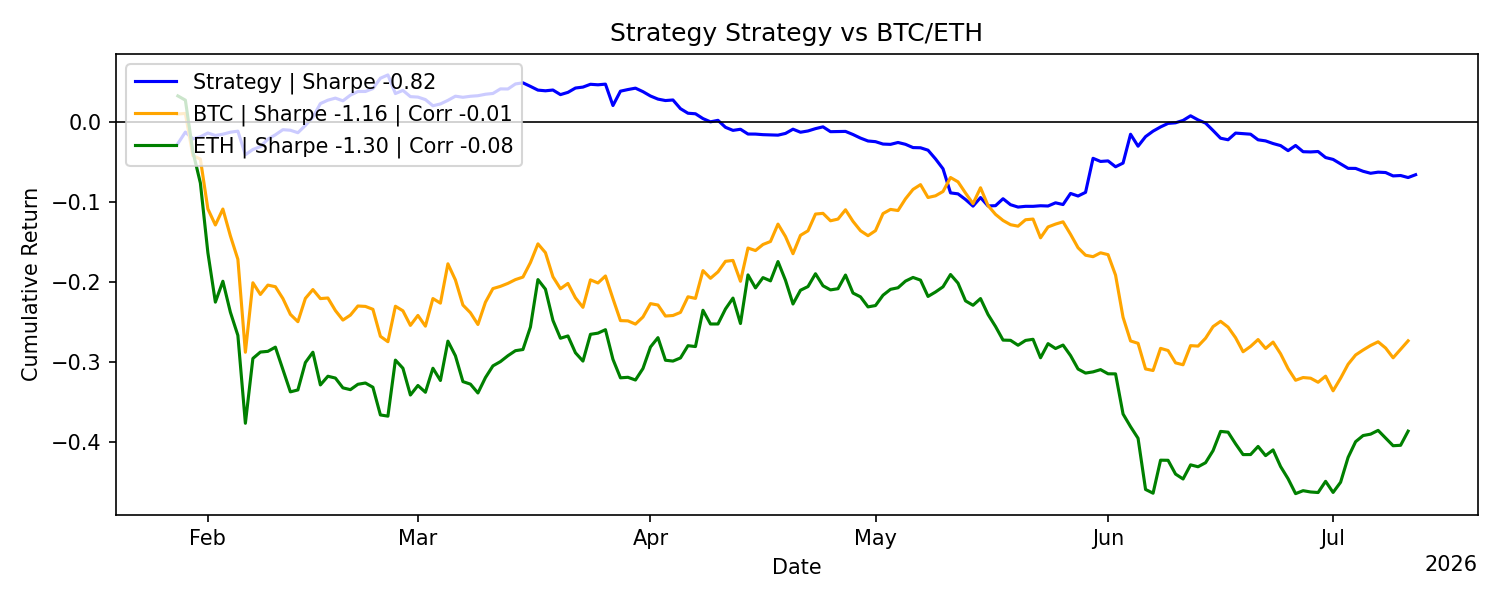
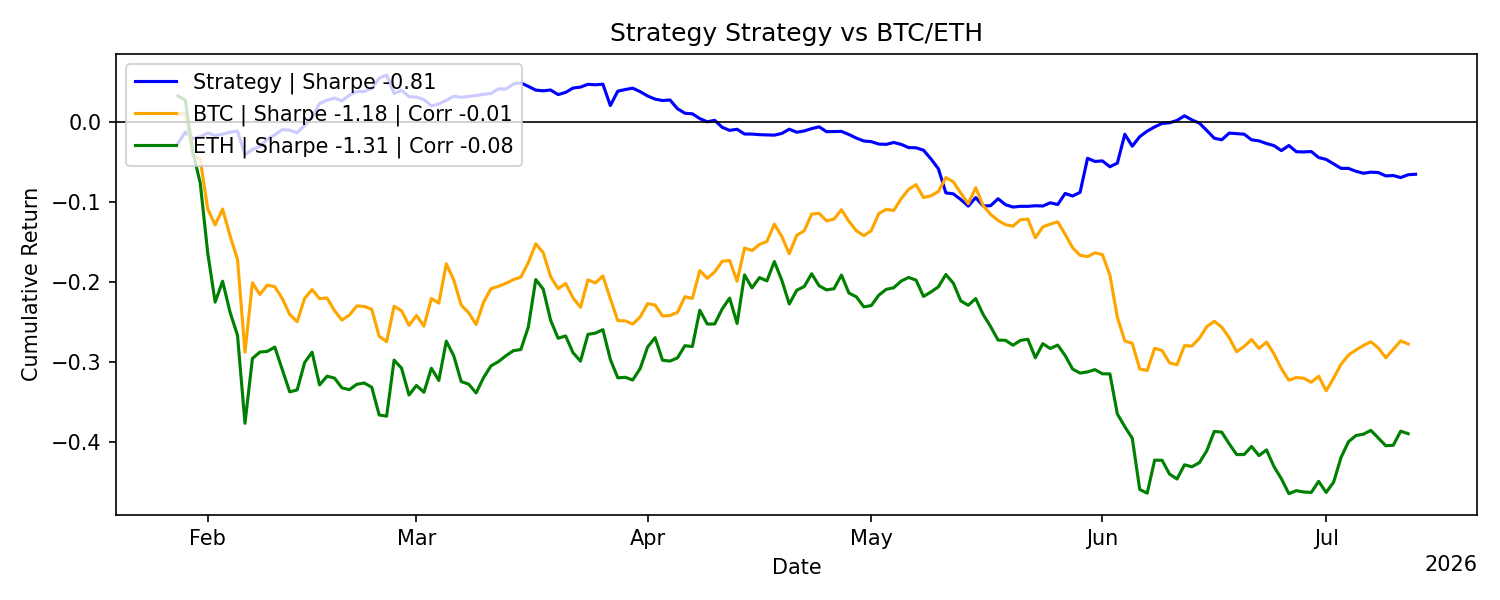
Update reports: 2026-07-13 00:00:02 UTC

diff --git a/README.md b/README.md
@@ -22,28 +22,28 @@ All results are live and reported net of transaction costs and slippage.
 - CSV: `metrics_strategy.csv`
 
 <!-- METRICS_START -->
-| metric                       |        values |
-|:-----------------------------|--------------:|
-| Number of Observations       | 166           |
-| Mean Daily Return            |  -0.000372473 |
-| Daily Volatility             |   0.00872468  |
-| Mean Annualized Return       |  -0.135953    |
-| Annualized Volatility        |   0.166685    |
-| Maximum Drawdown             |  -0.156146    |
-| Max Drawdown Duration (Days) | 137           |
-| Sharpe                       |  -0.815627    |
-| Sortino                      |  -1.12179     |
-| Calmar                       |  -0.870676    |
-| CAGR                         |  -0.139074    |
-| Skewness                     |   0.692876    |
-| Excess Kurtosis              |   8.4278      |
-| Win Rate                     |   0.46988     |
-| Profit Factor                |   0.872621    |
-| VaR 1%                       |  -0.0279139   |
-| CVaR 1%                      |  -0.030925    |
-| VaR 5%                       |  -0.0111456   |
-| CVaR 5%                      |  -0.0208176   |
-| Correlation with BTC         |  -0.0128561   |
+| metric                       |       values |
+|:-----------------------------|-------------:|
+| Number of Observations       | 167          |
+| Mean Daily Return            |  -0.00036654 |
+| Daily Volatility             |   0.0086987  |
+| Mean Annualized Return       |  -0.133787   |
+| Annualized Volatility        |   0.166188   |
+| Maximum Drawdown             |  -0.156146   |
+| Max Drawdown Duration (Days) | 138          |
+| Sharpe                       |  -0.805033   |
+| Sortino                      |  -1.10393    |
+| Calmar                       |  -0.856809   |
+| CAGR                         |  -0.137137   |
+| Skewness                     |   0.692779   |
+| Excess Kurtosis              |   8.49147    |
+| Win Rate                     |   0.473054   |
+| Profit Factor                |   0.873895   |
+| VaR 1%                       |  -0.0278841  |
+| CVaR 1%                      |  -0.030925   |
+| VaR 5%                       |  -0.0111083  |
+| CVaR 5%                      |  -0.0208176  |
+| Correlation with BTC         |  -0.0132703  |
 <!-- METRICS_END -->
 
 ## Sharpe Statistics
@@ -55,14 +55,14 @@ All results are live and reported net of transaction costs and slippage.
 | metric                     |   values |
 |:---------------------------|---------:|
 | alpha                      |   0.05   |
-| t-statistic                |  -0.55   |
-| p-value                    |   0.583  |
-| Daily Sharpe Ratio         |  -0.0427 |
-| Annualized Sharpe Ratio    |  -0.8156 |
-| Sharpe Standard Error      |   1.5126 |
-| C.I. Lower Bound           |  -3.7803 |
-| C.I. Upper Bound           |   2.1491 |
-| Bootstrap C.I. Lower Bound |  -4.1351 |
-| Bootstrap C.I. Upper Bound |   2.8502 |
+| t-statistic                |  -0.5445 |
+| p-value                    |   0.5868 |
+| Daily Sharpe Ratio         |  -0.0421 |
+| Annualized Sharpe Ratio    |  -0.805  |
+| Sharpe Standard Error      |   1.5077 |
+| C.I. Lower Bound           |  -3.7601 |
+| C.I. Upper Bound           |   2.15   |
+| Bootstrap C.I. Lower Bound |  -4.3589 |
+| Bootstrap C.I. Upper Bound |   3.0472 |
 <!-- SHARPE_END -->
 
